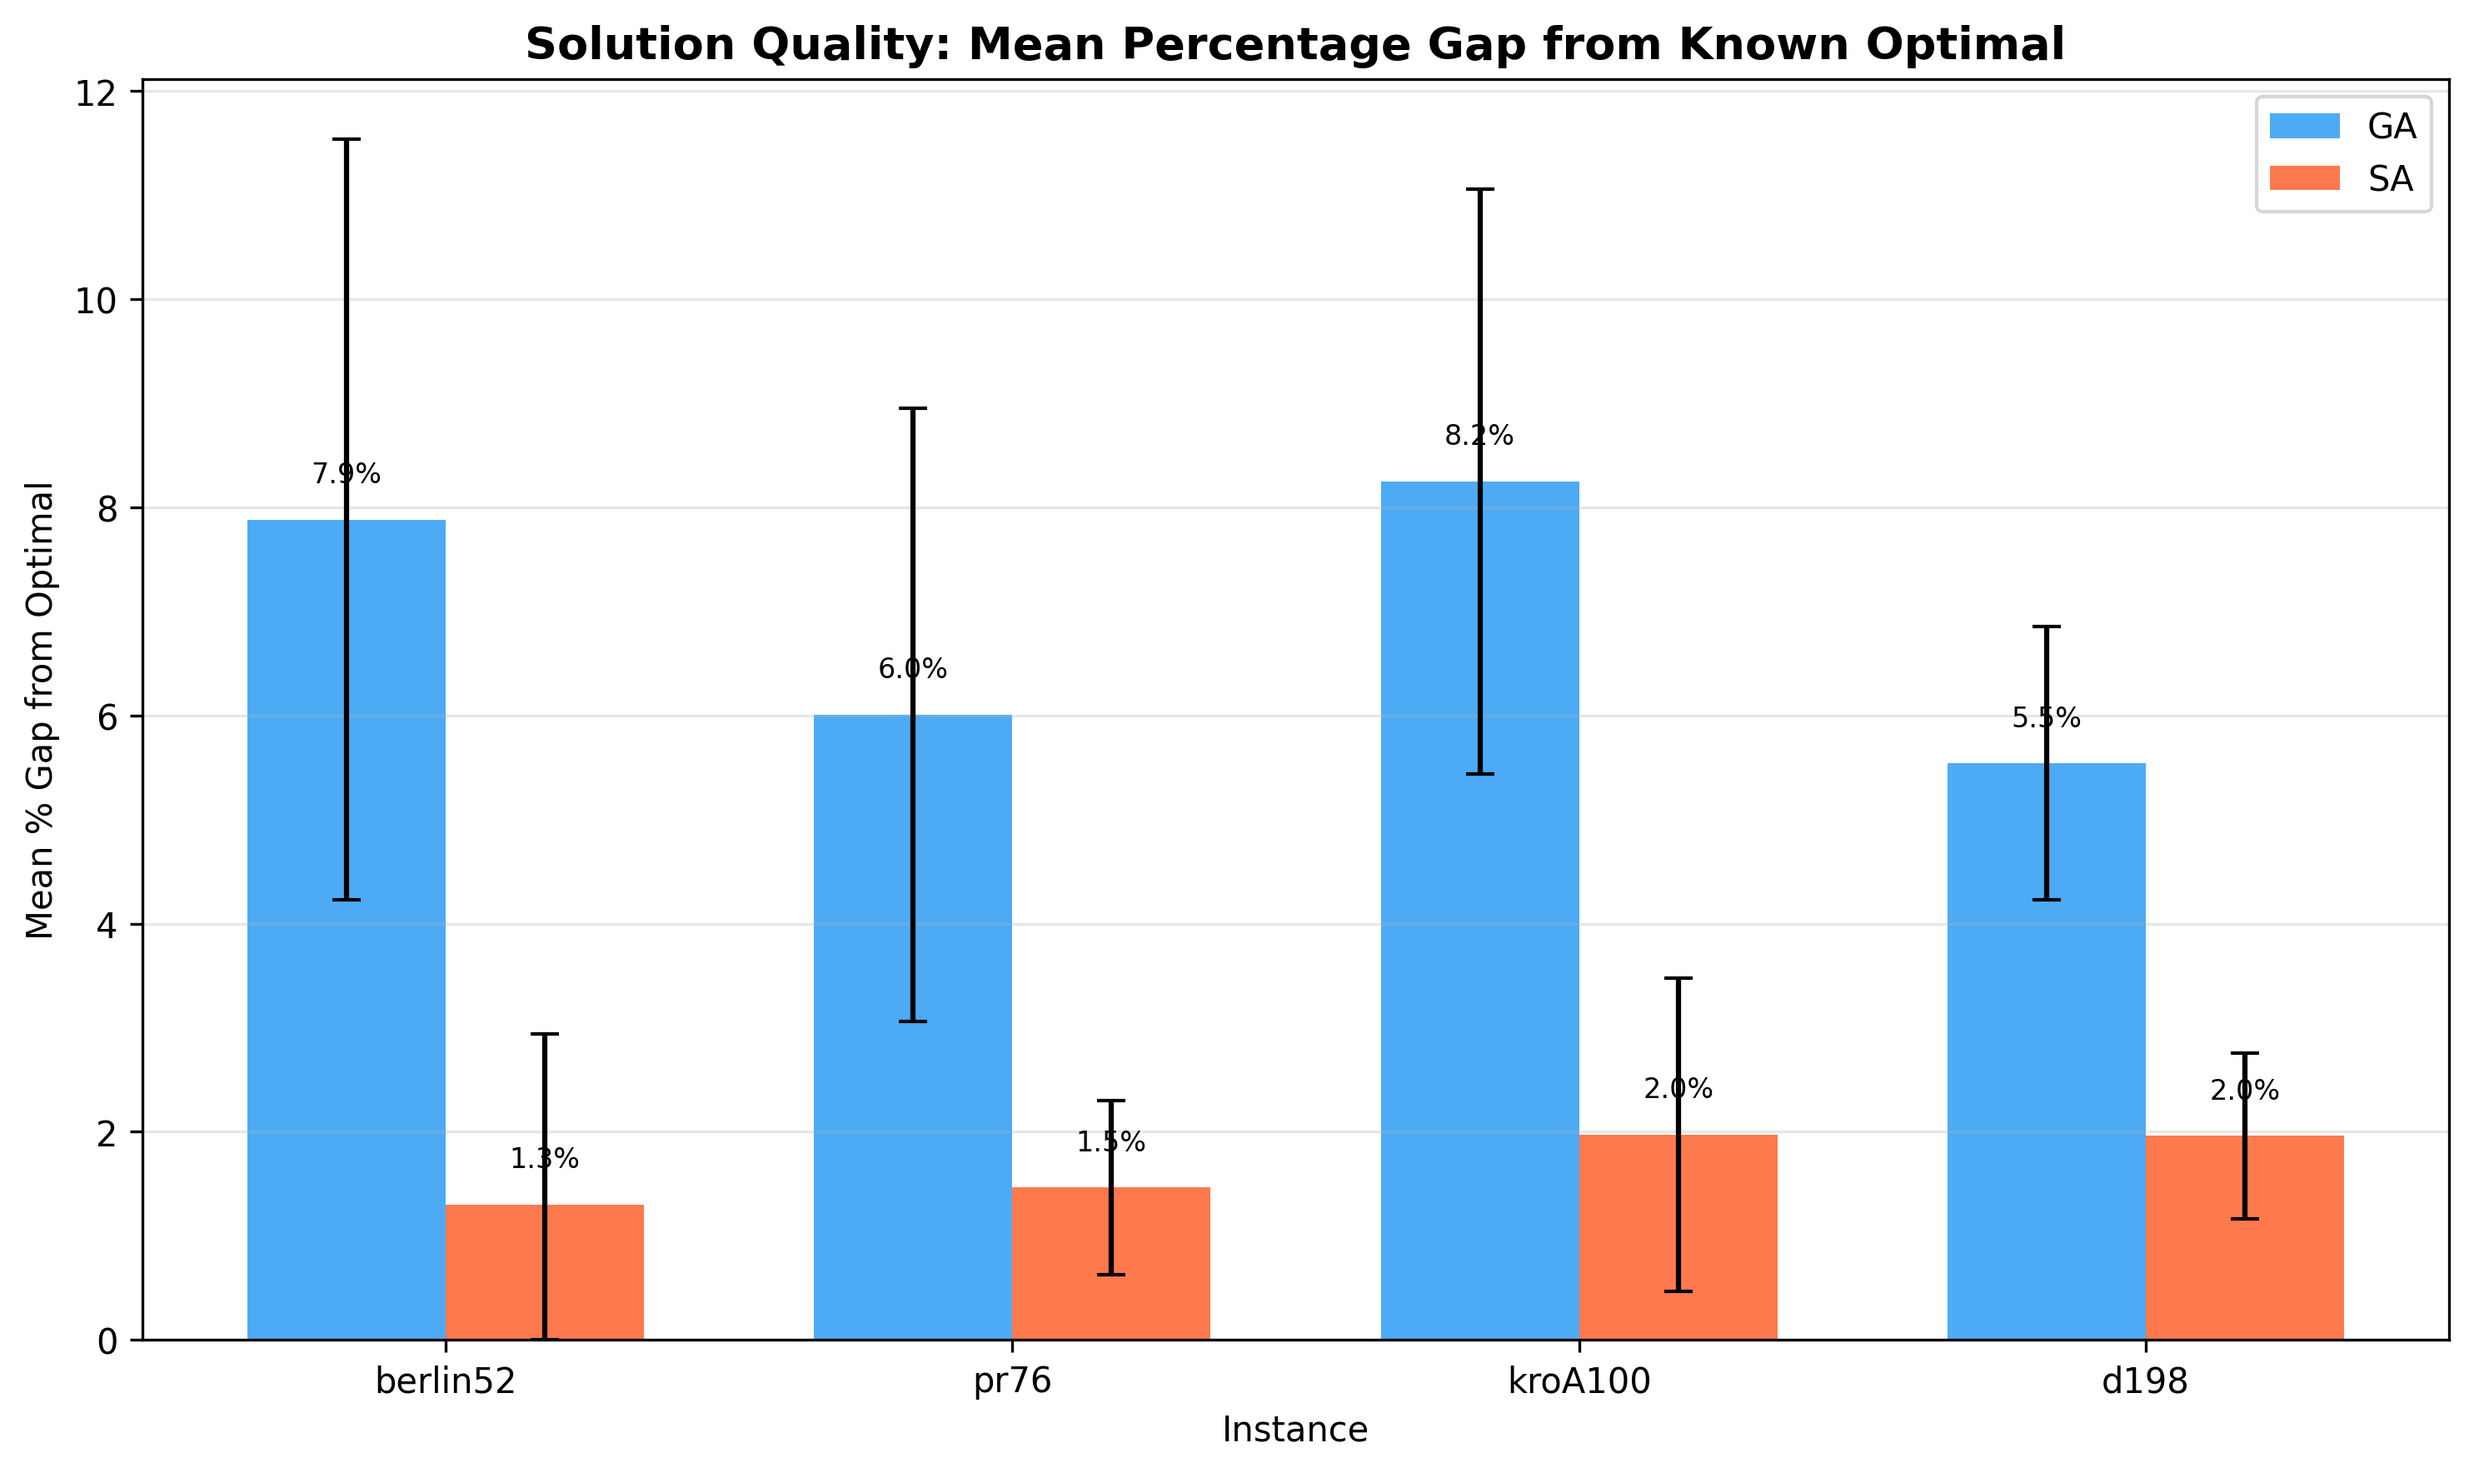
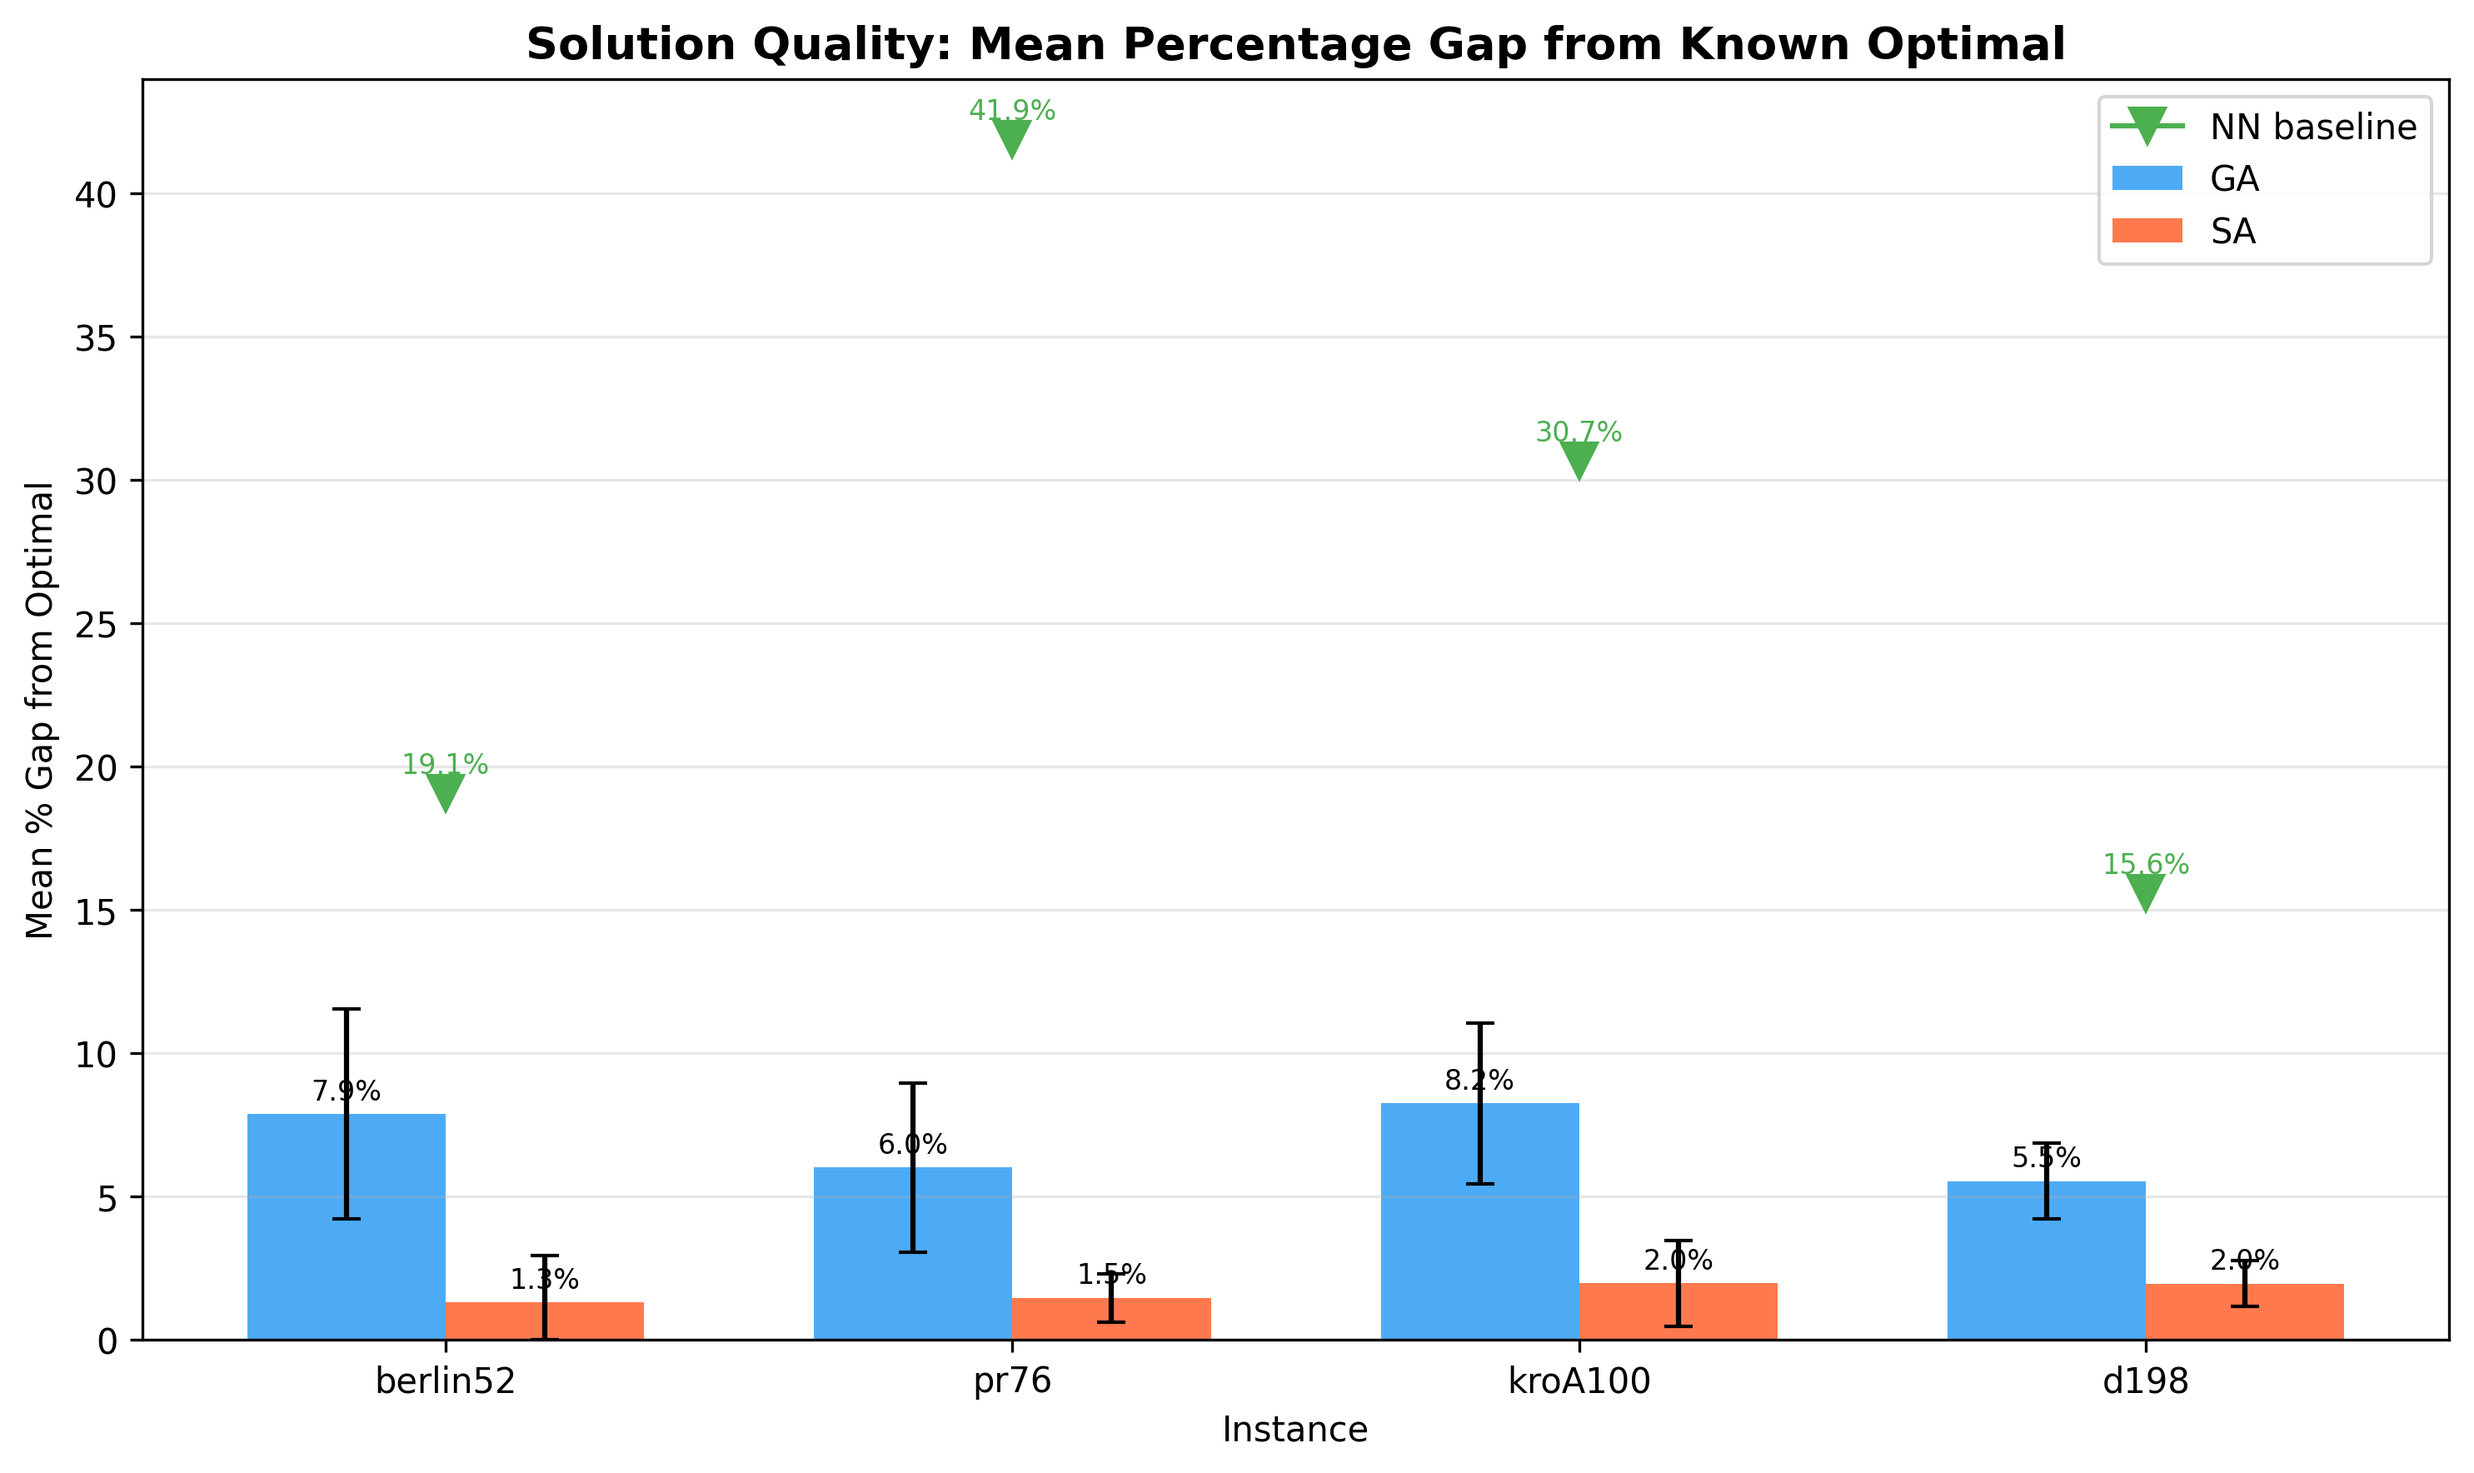
fix audit findings

diff --git a/analysis.py b/analysis.py
@@ -175,8 +175,10 @@ def plot_best_tours(df, conv, results_dir: str = "results", base_dir: str = ".")
     print("Saved fig3_best_tours.png")
 
 
-def plot_gap_barchart(df, results_dir: str = "results"):
-    """Figure 4: Mean % gap from optimal, grouped by instance."""
+def plot_gap_barchart(df, results_dir: str = "results", base_dir: str = "."):
+    """Figure 4: Mean % gap from optimal, grouped by instance, with NN baseline."""
+    from algorithms.tsp import parse_tsplib, nearest_neighbor_cost
+
     fig, ax = plt.subplots(figsize=(10, 6))
 
     instances = list(INSTANCES.keys())
@@ -187,6 +189,7 @@ def plot_gap_barchart(df, results_dir: str = "results"):
     sa_gaps = []
     ga_errs = []
     sa_errs = []
+    nn_gaps = []
 
     for inst_name in instances:
         inst_df = df[df["instance"] == inst_name]
@@ -197,6 +200,12 @@ def plot_gap_barchart(df, results_dir: str = "results"):
         ga_errs.append(ga_gap.std())
         sa_errs.append(sa_gap.std())
 
+        inst_config = INSTANCES[inst_name]
+        instance = parse_tsplib(os.path.join(base_dir, inst_config["file"]),
+                                inst_config["optimal"])
+        nn_cost = nearest_neighbor_cost(instance.dist_matrix)
+        nn_gaps.append((nn_cost - inst_config["optimal"]) / inst_config["optimal"] * 100)
+
     # Clip lower error bars at zero (gap can't be negative)
     ga_lo = [min(g, e) for g, e in zip(ga_gaps, ga_errs)]
     sa_lo = [min(g, e) for g, e in zip(sa_gaps, sa_errs)]
@@ -206,6 +215,13 @@ def plot_gap_barchart(df, results_dir: str = "results"):
     bars2 = ax.bar(x + width / 2, sa_gaps, width,
                    yerr=[sa_lo, sa_errs],
                    label="SA", color="#FF5722", alpha=0.8, capsize=4)
+
+    # NN baseline markers
+    for i, nn_gap in enumerate(nn_gaps):
+        ax.plot(x[i], nn_gap, marker='v', color='#4CAF50', markersize=10,
+                zorder=5, label="NN baseline" if i == 0 else None)
+        ax.text(x[i], nn_gap + 0.5, f"{nn_gap:.1f}%",
+                ha="center", va="bottom", fontsize=8, color="#4CAF50")
 
     # Add value labels on bars
     for bar, val in zip(bars1, ga_gaps):
@@ -233,9 +249,11 @@ def plot_gap_barchart(df, results_dir: str = "results"):
 def statistical_analysis(df, results_dir: str = "results"):
     """Perform statistical tests and create Figure 5 (summary table) + CSV."""
     rows = []
+    n_comparisons = len(INSTANCES)  # 4 tests → Bonferroni α = 0.05/4
+    alpha_corrected = 0.05 / n_comparisons
 
     print(f"\n{'='*80}")
-    print("STATISTICAL ANALYSIS")
+    print(f"STATISTICAL ANALYSIS (Bonferroni-corrected alpha={alpha_corrected})")
     print(f"{'='*80}")
 
     for inst_name in INSTANCES:
@@ -274,8 +292,11 @@ def statistical_analysis(df, results_dir: str = "results"):
               f"({'normal' if sw_ga_p > 0.05 else 'non-normal'})")
         print(f"  Shapiro-Wilk SA: W={sw_sa_stat:.4f}, p={sw_sa_p:.4f} "
               f"({'normal' if sw_sa_p > 0.05 else 'non-normal'})")
-        print(f"  Mann-Whitney U: U={u_stat:.1f}, p={u_p:.6f} "
-              f"({'significant' if u_p < 0.05 else 'not significant'} at alpha=0.05)")
+        p_corrected = min(u_p * n_comparisons, 1.0)
+        print(f"  Mann-Whitney U: U={u_stat:.1f}, p={u_p:.6f}, "
+              f"p_corrected={p_corrected:.6f} "
+              f"({'significant' if p_corrected < 0.05 else 'not significant'} "
+              f"at Bonferroni-corrected alpha={alpha_corrected})")
         print(f"  Effect size (rank-biserial r): {effect_size:.4f}")
 
         for idx_alg, (alg, costs, gaps) in enumerate([("GA", ga_costs, ga_gaps), ("SA", sa_costs, sa_gaps)]):
@@ -297,10 +318,12 @@ def statistical_analysis(df, results_dir: str = "results"):
             if idx_alg == 0:
                 row["Mann-Whitney U"] = f"{u_stat:.1f}"
                 row["Mann-Whitney p"] = f"{u_p:.6f}"
+                row["Corrected p"] = f"{p_corrected:.6f}"
                 row["Effect Size r"] = f"{effect_size:.4f}"
             else:
                 row["Mann-Whitney U"] = ""
                 row["Mann-Whitney p"] = ""
+                row["Corrected p"] = ""
                 row["Effect Size r"] = ""
             rows.append(row)
 
@@ -320,12 +343,13 @@ def statistical_analysis(df, results_dir: str = "results"):
         table_data.append([
             row["Instance"], row["Algorithm"], row["n"],
             row["Mean Cost"], row["Std"], row["Min"], row["Max"],
-            row["Mean Gap (%)"], row["Mann-Whitney p"], row["Effect Size r"],
+            row["Mean Gap (%)"], row["Mann-Whitney p"],
+            row["Corrected p"], row["Effect Size r"],
         ])
 
     col_labels = [
         "Instance", "Algorithm", "n", "Mean Cost", "Std",
-        "Min", "Max", "Gap (%)", "M-W p-value", "Effect r",
+        "Min", "Max", "Gap (%)", "M-W p", "Corrected p", "Effect r",
     ]
 
     table = ax.table(
@@ -448,8 +472,11 @@ def convergence_efficiency(df, conv, results_dir: str = "results"):
     print("Saved fig6_convergence_efficiency.png")
 
     # Statistical tests on convergence efficiency
+    # 4 instances × 3 thresholds = 12 comparisons
+    n_eff_comparisons = len(INSTANCES) * len(thresholds)
+    alpha_eff = 0.05 / n_eff_comparisons
     print(f"\n{'='*80}")
-    print("CONVERGENCE EFFICIENCY ANALYSIS")
+    print(f"CONVERGENCE EFFICIENCY ANALYSIS (Bonferroni-corrected alpha={alpha_eff:.4f})")
     print(f"{'='*80}")
 
     for thresh in thresholds:
@@ -467,11 +494,12 @@ def convergence_efficiency(df, conv, results_dir: str = "results"):
                 u_stat, u_p = stats.mannwhitneyu(ga_fe, sa_fe, alternative="two-sided")
                 n1, n2 = len(ga_fe), len(sa_fe)
                 r = 1 - 2 * u_stat / (n1 * n2)
+                p_corr = min(u_p * n_eff_comparisons, 1.0)
             else:
-                u_p = r = float("nan")
+                u_p = r = p_corr = float("nan")
 
             print(f"  {inst_name}: GA mean={ga_mean:,.0f}  SA mean={sa_mean:,.0f}  "
-                  f"p={u_p:.6f}  r={r:.4f}")
+                  f"p={u_p:.6f}  p_corrected={p_corr:.6f}  r={r:.4f}")
 
     return eff_df
 

diff --git a/algorithms/tsp.py b/algorithms/tsp.py
@@ -91,3 +91,25 @@ def tour_cost(dist_matrix, tour):
             j = 0
         cost += dist_matrix[tour[i], tour[j]]
     return cost
+
+
+def nearest_neighbor_cost(dist_matrix):
+    """Nearest-neighbor heuristic starting from city 0. Returns tour cost."""
+    n = len(dist_matrix)
+    visited = np.zeros(n, dtype=np.bool_)
+    tour = np.empty(n, dtype=np.int32)
+    tour[0] = 0
+    visited[0] = True
+
+    for step in range(1, n):
+        current = tour[step - 1]
+        best_dist = np.iinfo(np.int32).max
+        best_city = -1
+        for city in range(n):
+            if not visited[city] and dist_matrix[current, city] < best_dist:
+                best_dist = dist_matrix[current, city]
+                best_city = city
+        tour[step] = best_city
+        visited[best_city] = True
+
+    return tour_cost(dist_matrix, tour)

diff --git a/README.md b/README.md
@@ -58,7 +58,7 @@ All use EUC_2D edge weights: `nint(sqrt(dx^2 + dy^2))` per TSPLIB spec. FE budge
 | Parameter | Value | Rationale |
 |-----------|-------|-----------|
 | Population | 100 | Balances diversity against evaluation cost per generation |
-| Selection | Tournament, k=5 | ~93% probability of selecting best from sample |
+| Selection | Tournament, k=5 | High selective pressure; expected selection from top ~17% of population |
 | Crossover | Order Crossover (OX), rate=0.9 | Preserves relative city ordering; standard for permutations |
 | Mutation | Inversion, rate=0.3 | Reverses a subsequence; preserves adjacency better than swap |
 | Elitism | 2 | Prevents loss of best solutions between generations |
